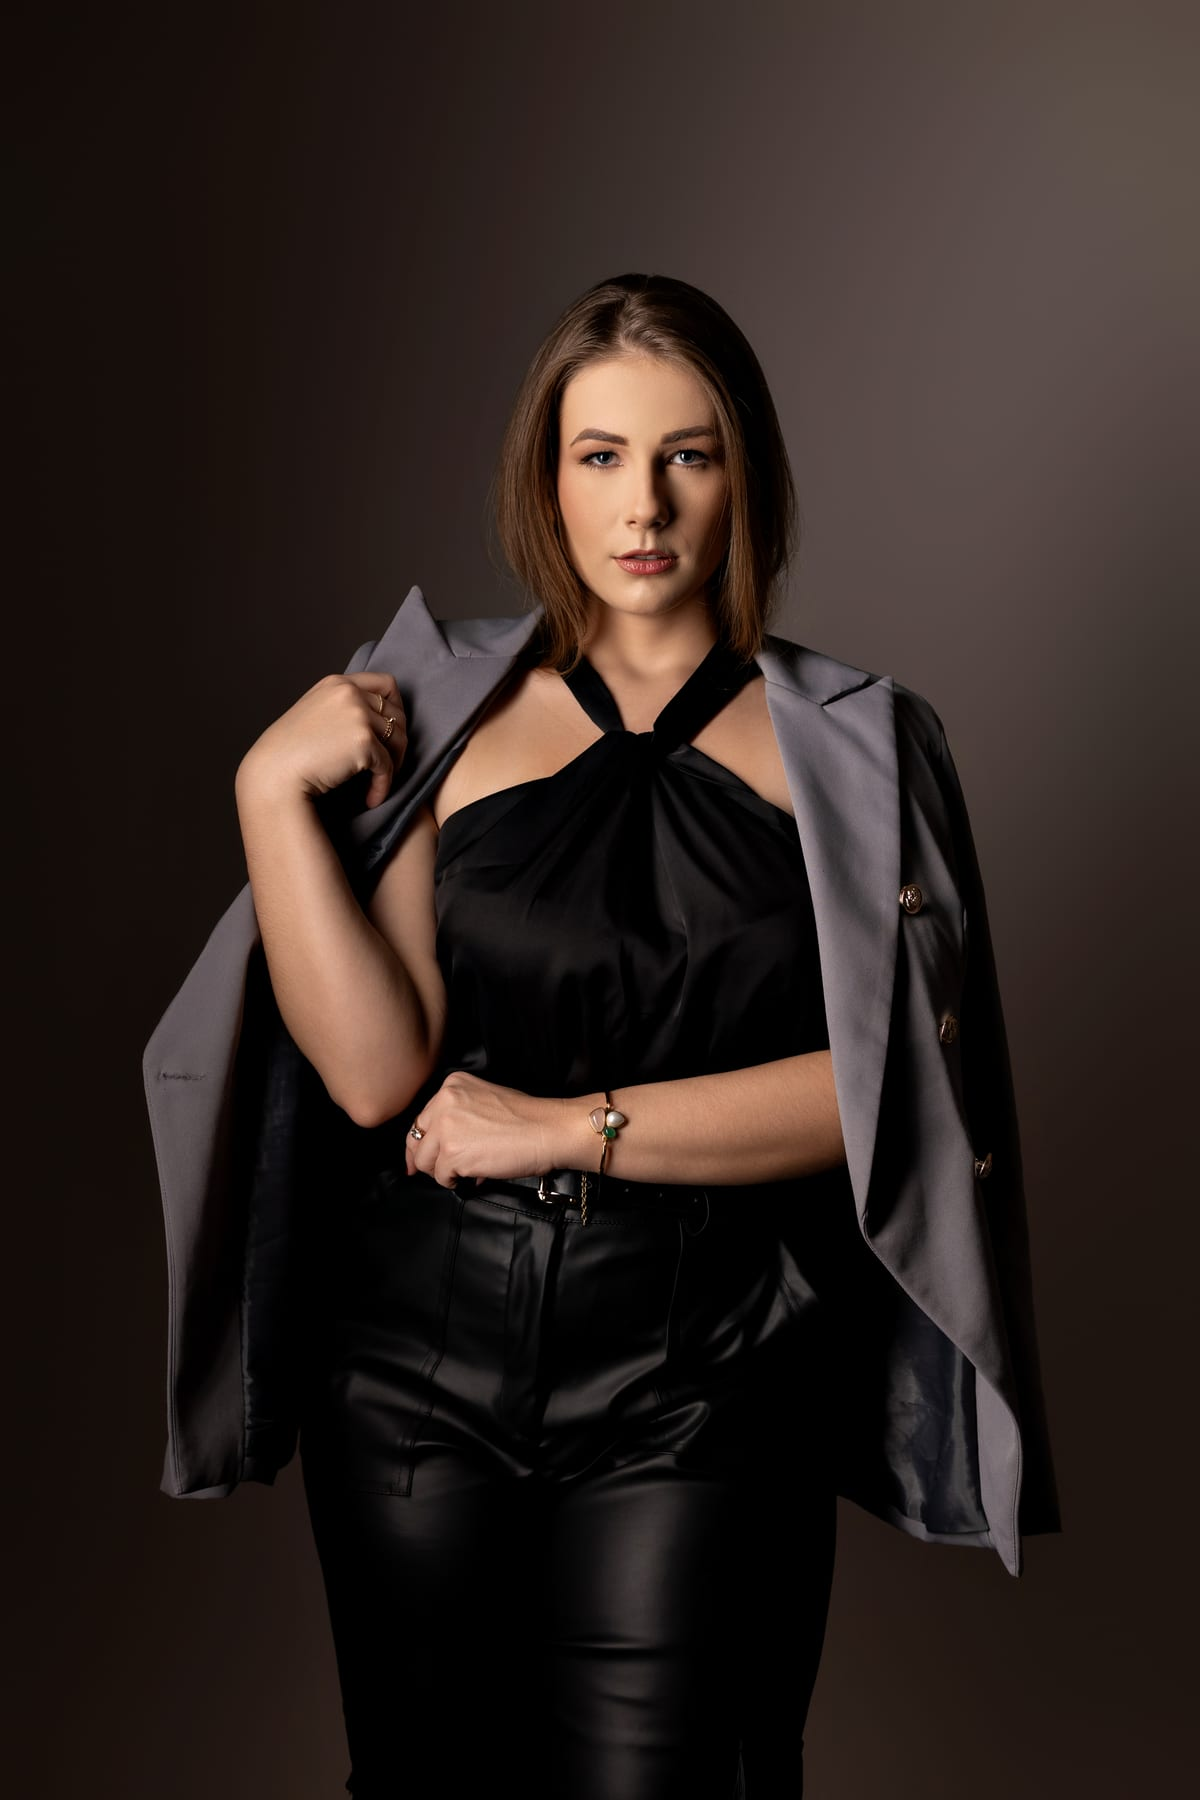
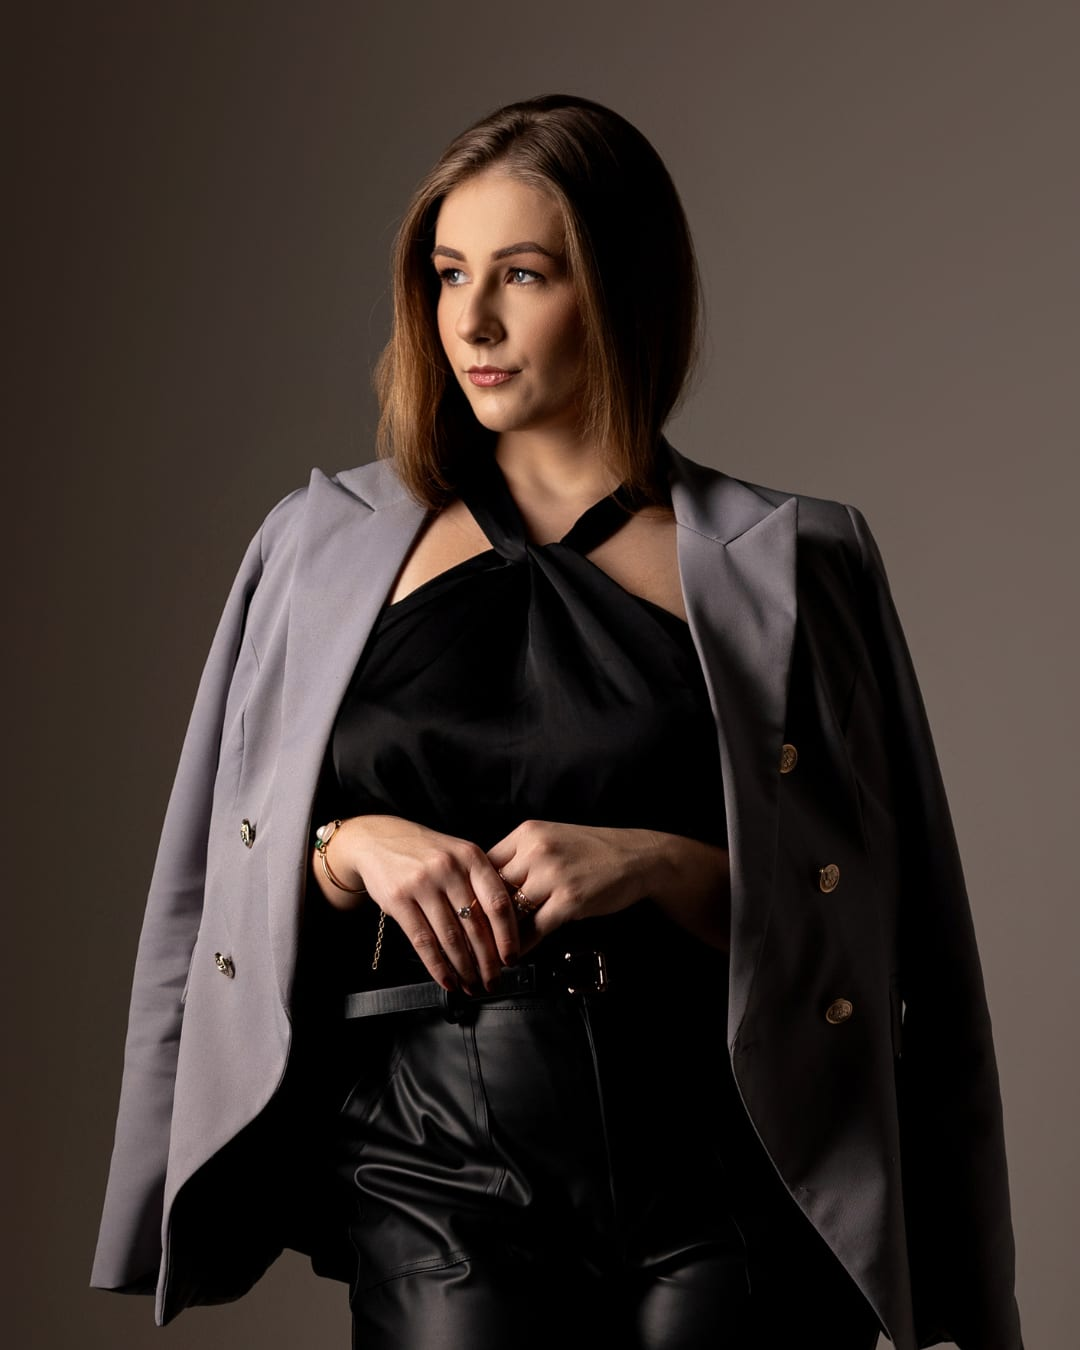
Adiciona seção "Vídeos", atualiza foto da Mentoria e une Contato ao rodapé
- Nova foto na seção "Mentoria de Marketing" (substitui a anterior),
  processada e comprimida como public/images/mentoria.jpg.
- Nova seção "Vídeos" (src/components/Videos.tsx), entre Depoimentos
  e Contato, com fundo claro (bg-amp-cream) para contrastar com as
  seções bordô ao redor. Grid de cards verticais (estilo Serviços)
  com espaço pronto para os links do YouTube: preencher `youtubeUrl`
  em cada item quando os vídeos forem publicados; enquanto vazio,
  mostra um placeholder "Adicionar link do YouTube". Link "Vídeos"
  adicionado à navegação.
- Seção "Contato" passa de fundo claro para bordô, unindo-se
  visualmente ao rodapé (também bordô). ContatoForm.tsx teve labels,
  textos de erro, opções de "Interesse" e botão de envio ajustados
  para o novo fundo escuro (mantendo os campos do formulário e o
  card de sucesso claros, para legibilidade).

Sequência de cores final: Depoimentos (bordô) → Vídeos (claro) →
Contato + Rodapé (bordô).

Validado com typecheck, lint, build e testes end-to-end via
Playwright (fluxo do formulário, estados de erro, responsividade).

Claude-Session: https://claude.ai/code/session_01CYvMSdyCeSGj8Lob7Y13SL

diff --git a/src/components/ContatoForm.tsx b/src/components/ContatoForm.tsx
@@ -17,7 +17,8 @@ import { whatsappHref } from "@/lib/site-config";
 const inputClass =
   "w-full rounded-sm border border-amp-gold/40 bg-white/70 px-4 py-3 font-sans text-sm text-amp-ink placeholder:text-amp-ink/35 outline-none transition-colors duration-300 focus:border-amp-gold";
 
-const labelClass = "block font-sans text-xs uppercase tracking-widest2 text-amp-wine/70 mb-2";
+const labelClass = "block font-sans text-xs uppercase tracking-widest2 text-amp-sand mb-2";
+const errorClass = "text-xs text-red-300";
 
 type Status = "idle" | "submitting" | "success" | "error";
 
@@ -139,7 +140,7 @@ export default function ContatoForm() {
             className={inputClass}
             placeholder="Seu nome completo"
           />
-          {errors.nome && <p className="mt-2 text-xs text-amp-wine">{errors.nome}</p>}
+          {errors.nome && <p className={clsx("mt-2", errorClass)}>{errors.nome}</p>}
         </div>
 
         <div>
@@ -155,7 +156,7 @@ export default function ContatoForm() {
             className={inputClass}
             placeholder="seu@email.com"
           />
-          {errors.email && <p className="mt-2 text-xs text-amp-wine">{errors.email}</p>}
+          {errors.email && <p className={clsx("mt-2", errorClass)}>{errors.email}</p>}
         </div>
 
         <div>
@@ -171,7 +172,7 @@ export default function ContatoForm() {
             className={inputClass}
             placeholder="(11) 99999-9999"
           />
-          {errors.telefone && <p className="mt-2 text-xs text-amp-wine">{errors.telefone}</p>}
+          {errors.telefone && <p className={clsx("mt-2", errorClass)}>{errors.telefone}</p>}
         </div>
 
         <div>
@@ -195,7 +196,7 @@ export default function ContatoForm() {
           {OPCOES_INTERESSE.map((opcao) => (
             <label
               key={opcao.value}
-              className="flex cursor-pointer items-center gap-3 font-sans text-sm text-amp-ink"
+              className="flex cursor-pointer items-center gap-3 font-sans text-sm text-amp-cream"
             >
               <input
                 type="radio"
@@ -209,10 +210,10 @@ export default function ContatoForm() {
             </label>
           ))}
         </div>
-        {errors.interesse && <p className="mt-2 text-xs text-amp-wine">{errors.interesse}</p>}
+        {errors.interesse && <p className={clsx("mt-2", errorClass)}>{errors.interesse}</p>}
 
         {values.interesse === "servicos_pontuais" && (
-          <div className="mt-4 grid grid-cols-1 gap-3 rounded-sm border border-amp-gold/30 bg-white/50 p-5 sm:grid-cols-2">
+          <div className="mt-4 grid grid-cols-1 gap-3 rounded-sm border border-amp-gold/30 bg-amp-cream/95 p-5 sm:grid-cols-2">
             {SERVICOS_PONTUAIS.map((servico) => (
               <label
                 key={servico.value}
@@ -249,7 +250,7 @@ export default function ContatoForm() {
       </div>
 
       <div>
-        <label className="flex cursor-pointer items-start gap-3 font-sans text-sm text-amp-ink/85">
+        <label className="flex cursor-pointer items-start gap-3 font-sans text-sm text-amp-cream/85">
           <input
             type="checkbox"
             required
@@ -259,21 +260,21 @@ export default function ContatoForm() {
           />
           <span>
             Li e aceito os termos e a{" "}
-            <Link href="/privacidade" className="underline underline-offset-2 hover:text-amp-wine" target="_blank">
+            <Link href="/privacidade" className="underline underline-offset-2 hover:text-amp-gold" target="_blank">
               Política de Privacidade
             </Link>
             . *
           </span>
         </label>
-        {errors.aceite && <p className="mt-2 text-xs text-amp-wine">{errors.aceite}</p>}
+        {errors.aceite && <p className={clsx("mt-2", errorClass)}>{errors.aceite}</p>}
       </div>
 
-      {errors.form && <p className="text-sm text-amp-wine">{errors.form}</p>}
+      {errors.form && <p className={clsx("text-sm", errorClass)}>{errors.form}</p>}
 
       <button
         type="submit"
         disabled={status === "submitting"}
-        className="w-full rounded-full border border-amp-gold bg-transparent px-6 py-3.5 text-sm font-medium uppercase tracking-widest2 text-amp-wine transition-colors duration-300 hover:bg-amp-gold disabled:opacity-60 sm:w-auto"
+        className="w-full rounded-full border border-amp-gold bg-transparent px-6 py-3.5 text-sm font-medium uppercase tracking-widest2 text-amp-gold transition-colors duration-300 hover:bg-amp-gold hover:text-amp-wine disabled:opacity-60 sm:w-auto"
       >
         {status === "submitting" ? "Enviando..." : "Enviar para o WhatsApp"}
       </button>

diff --git a/src/components/Videos.tsx b/src/components/Videos.tsx
@@ -1,0 +1,87 @@
+import Reveal from "./Reveal";
+import { IconPlay } from "./icons";
+
+type VideoItem = {
+  titulo: string;
+  categoria: string;
+  cliente: string;
+  /** Link do vídeo no YouTube — adicionar quando publicado. */
+  youtubeUrl?: string;
+};
+
+/** Vídeos em destaque, editar títulos/categorias e preencher `youtubeUrl` conforme forem publicados. */
+const videos: VideoItem[] = [
+  { titulo: "Vídeo institucional", categoria: "Institucional", cliente: "Cliente AMP, substituir" },
+  { titulo: "Bastidores da produção", categoria: "Bastidores", cliente: "Cliente AMP, substituir" },
+  { titulo: "Case de resultado", categoria: "Case", cliente: "Cliente AMP, substituir" },
+  { titulo: "Depoimento em vídeo", categoria: "Depoimento", cliente: "Cliente AMP, substituir" },
+];
+
+export default function Videos() {
+  return (
+    <section id="videos" className="bg-amp-cream py-24 sm:py-32">
+      <div className="mx-auto max-w-content px-6 sm:px-8">
+        <Reveal className="mx-auto max-w-2xl text-center">
+          <span className="block font-sans text-xs uppercase tracking-widest2 text-amp-wine/60">
+            Vídeos
+          </span>
+          <h2 className="mt-4 font-display text-3xl font-medium text-amp-ink sm:text-4xl">
+            Conteúdo em movimento
+          </h2>
+          <p className="mt-4 font-sans text-base font-light leading-relaxed text-amp-ink/70">
+            Produções em vídeo assinadas pela AMP, direto do nosso canal no YouTube.
+          </p>
+        </Reveal>
+
+        <div className="mt-16 grid grid-cols-2 gap-5 sm:gap-6 lg:grid-cols-4">
+          {videos.map((video, index) => {
+            const thumb = (
+              <div className="group relative aspect-[9/16] w-full overflow-hidden rounded-md border border-amp-gold/40 bg-white/60 transition-colors duration-300 hover:border-amp-gold">
+                <div className="flex h-full w-full flex-col items-center justify-center gap-3 px-4 text-center">
+                  <span className="flex h-12 w-12 items-center justify-center rounded-full border border-amp-gold text-amp-wine transition-transform duration-300 group-hover:scale-105">
+                    <IconPlay className="h-5 w-5" />
+                  </span>
+                  {!video.youtubeUrl && (
+                    <span className="font-sans text-[0.6rem] uppercase tracking-widest2 text-amp-wine/45">
+                      Adicionar link do YouTube
+                    </span>
+                  )}
+                </div>
+              </div>
+            );
+
+            return (
+              <Reveal key={video.titulo} delay={index * 0.08}>
+                <div className="flex flex-col items-center text-center">
+                  {video.youtubeUrl ? (
+                    <a
+                      href={video.youtubeUrl}
+                      target="_blank"
+                      rel="noopener noreferrer"
+                      className="w-full"
+                      aria-label={`Assistir: ${video.titulo}`}
+                    >
+                      {thumb}
+                    </a>
+                  ) : (
+                    thumb
+                  )}
+
+                  <span className="mt-4 block font-sans text-xs uppercase tracking-widest2 text-amp-wine/60">
+                    {video.categoria}
+                  </span>
+                  <h3 className="mt-1 font-display text-base font-medium text-amp-ink">
+                    {video.titulo}
+                  </h3>
+                  <span className="mt-0.5 block font-sans text-xs text-amp-ink/50">
+                    {video.cliente}
+                  </span>
+                </div>
+              </Reveal>
+            );
+          })}
+        </div>
+      </div>
+    </section>
+  );
+}

diff --git a/src/components/Contato.tsx b/src/components/Contato.tsx
@@ -3,16 +3,16 @@ import ContatoForm from "./ContatoForm";
 
 export default function Contato() {
   return (
-    <section id="contato" className="bg-amp-cream py-24 sm:py-32">
+    <section id="contato" className="bg-amp-wine py-24 sm:py-32">
       <div className="mx-auto max-w-content px-6 sm:px-8">
         <Reveal className="mx-auto max-w-2xl text-center">
-          <span className="block font-sans text-xs uppercase tracking-widest2 text-amp-wine/60">
+          <span className="block font-sans text-xs uppercase tracking-widest2 text-amp-sand">
             Contato
           </span>
-          <h2 className="mt-4 font-display text-3xl font-medium text-amp-ink sm:text-4xl">
+          <h2 className="mt-4 font-display text-3xl font-medium text-amp-cream sm:text-4xl">
             Vamos elevar o nível da sua empresa
           </h2>
-          <p className="mt-4 font-sans text-base font-light leading-relaxed text-amp-ink/70">
+          <p className="mt-4 font-sans text-base font-light leading-relaxed text-amp-cream/75">
             Preencha o formulário abaixo e clique para enviar a mensagem
             <br />
             para o WhatsApp com todas as respostas.

diff --git a/src/app/page.tsx b/src/app/page.tsx
@@ -4,6 +4,7 @@ import SobreAmp from "@/components/SobreAmp";
 import Servicos from "@/components/Servicos";
 import Mentoria from "@/components/Mentoria";
 import Depoimentos from "@/components/Depoimentos";
+import Videos from "@/components/Videos";
 import Contato from "@/components/Contato";
 
 export default function Home() {
@@ -15,6 +16,7 @@ export default function Home() {
       <Servicos />
       <Mentoria />
       <Depoimentos />
+      <Videos />
       <Contato />
     </>
   );

diff --git a/src/lib/site-config.ts b/src/lib/site-config.ts
@@ -19,6 +19,7 @@ export const navLinks = [
   { label: "Serviços", href: "#servicos" },
   { label: "Mentoria", href: "#mentoria" },
   { label: "Depoimentos", href: "#depoimentos" },
+  { label: "Vídeos", href: "#videos" },
   { label: "Contato", href: "#contato" },
 ];
 

diff --git a/README.md b/README.md
@@ -30,15 +30,16 @@ src/
     privacidade/page.tsx        # Política de Privacidade (LGPD)
     api/contact/route.ts         # Route Handler do formulário de contato
   components/
-    Logo.tsx                # monograma "AMP" + wordmark "ANDRIOLI"
+    Logo.tsx                # marca (public/images/logo-wordmark.png) usada no Header/Footer
     Header.tsx               # header fixo, menu mobile em tela cheia
-    Hero.tsx                  # seção hero
+    Hero.tsx                  # seção hero (com o monograma logo-amp.png no topo)
     Sobre.tsx                  # seção "Sobre a fundadora"
     SobreAmp.tsx                 # seção "Sobre a Andrioli Marketing & Performance" (missão + pilares)
     Servicos.tsx                   # seção "Serviços" (grid de cards + consultoria em destaque)
-    Mentoria.tsx                     # seção "Mentoria de Marketing" (fundo bege)
-    Depoimentos.tsx                    # carrossel de depoimentos
-    Contato.tsx / ContatoForm.tsx        # seção de contato + formulário completo
+    Mentoria.tsx                     # seção "Mentoria de Marketing" (fundo bordô)
+    Depoimentos.tsx                    # carrossel de depoimentos (fundo bordô)
+    Videos.tsx                          # seção "Vídeos" (grid de espaços para links do YouTube)
+    Contato.tsx / ContatoForm.tsx        # seção de contato (fundo bordô) + formulário completo
     Footer.tsx                             # rodapé (nav, contato, redes, link /privacidade)
     CookieConsentContext.tsx                 # estado de consentimento (localStorage)
     CookieBanner.tsx                           # banner LGPD (aceitar/recusar/preferências)
@@ -56,13 +57,14 @@ src/
 
 ## Configuração rápida (placeholders a editar)
 
-- `src/lib/site-config.ts`: número de WhatsApp, e-mail, Instagram, LinkedIn, URL do site.
+- `src/lib/site-config.ts`: número de WhatsApp, e-mail, Instagram, CNPJ, URL do site.
 - `tailwind.config.ts`: cores (`amp.wine` #3B0408 fixo em todas as seções, `amp.gold` para molduras/botões vazados, `amp.cream`, `amp.sand`, `amp.ink`) e fontes. Nomes usados no site: apenas "AMP" ou "Andrioli Marketing & Performance" (nunca "AMP Andrioli" combinados) — ver `siteConfig.name`/`siteConfig.fullName`.
 - `src/components/Sobre.tsx`: bio da fundadora (objeto `fundadora` no topo do arquivo) e foto, adicionar em `public/images` e trocar o bloco placeholder por `<Image />`.
 - `src/components/SobreAmp.tsx`: texto de missão (`missao`) e os 3-4 pilares/diferenciais (`pilares`).
 - `src/components/Servicos.tsx`: lista `servicos` e o serviço em destaque `consultoria`. Ao alterar, atualizar também `SERVICOS_PONTUAIS` em `src/lib/contact.ts` para manter o formulário de contato sincronizado.
 - `src/components/Mentoria.tsx`: entregáveis por categoria (`categorias`), badges (`duracao`/`cadencia`) e foto, adicionar em `public/images` e trocar o bloco placeholder por `<Image />`.
 - `src/components/Depoimentos.tsx`: array `depoimentos` (formato vertical 1080x1920). Adicionar os arquivos em `public/videos` ou `public/images` e preencher o campo `src` de cada item.
+- `src/components/Videos.tsx`: array `videos`, cada item com `titulo`/`categoria`/`cliente` e o campo `youtubeUrl` a preencher quando os vídeos forem publicados no YouTube. Enquanto vazio, o card fica com um placeholder "Adicionar link do YouTube".
 - `src/lib/privacy-content.ts`: texto-base da Política de Privacidade, **revisar com jurídico especializado em LGPD** antes de publicar; preencher os campos entre `[colchetes]` (razão social, CNPJ, e-mail do encarregado/DPO, data de atualização).
 
 ## Integrações pendentes
@@ -79,6 +81,7 @@ src/
 - [x] Serviços
 - [x] Mentoria de Marketing
 - [x] Depoimentos
+- [x] Vídeos (espaços prontos, aguardando links do YouTube)
 - [x] Contato (formulário + Route Handler `app/api/contact`)
 - [x] Footer
 - [x] Botão flutuante de WhatsApp global
